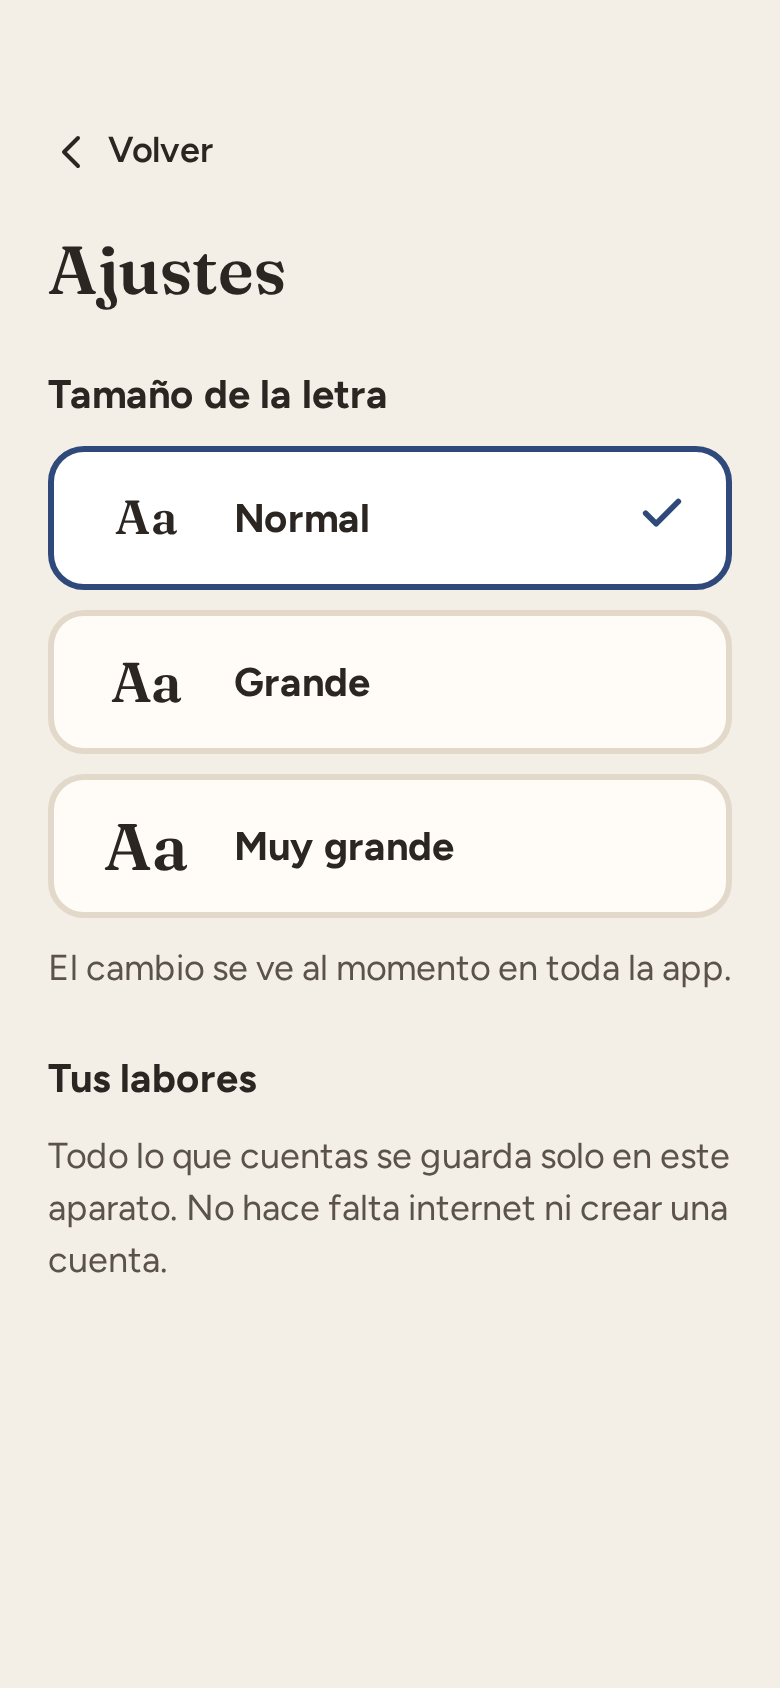
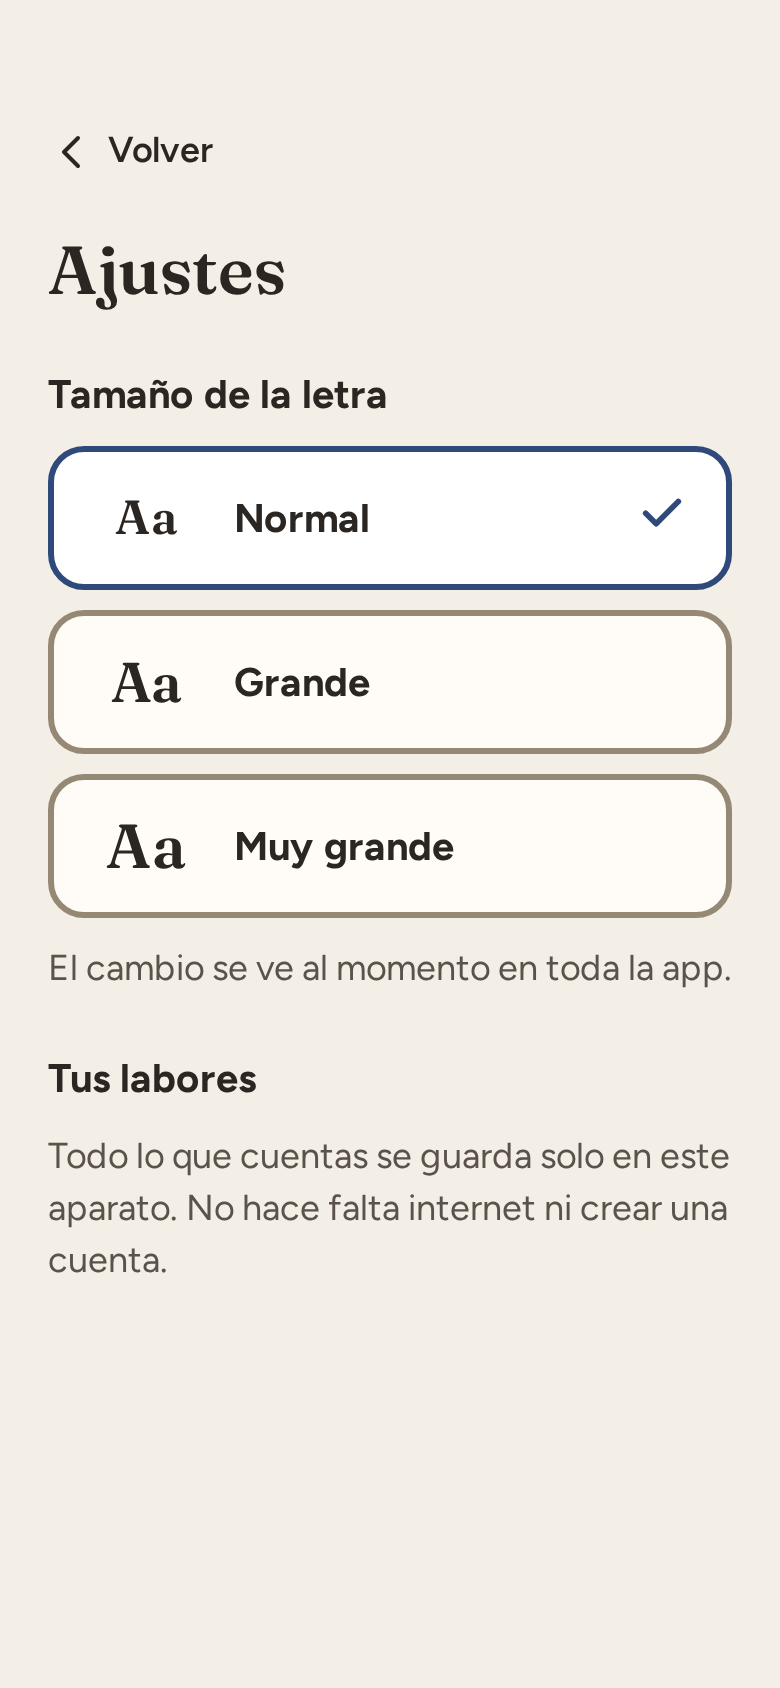
v2(T12-fixes): layouts for narrow and landscape screens with large text, refreshed screenshots

Changed region(s): [[0.0615, 0.3697, 0.9538, 0.5545], [0.0923, 0.3389, 0.9231, 0.3697], [0.9231, 0.3697, 0.9538, 0.4313]]

diff --git a/src/features/counter/CounterScreen.module.css b/src/features/counter/CounterScreen.module.css
@@ -74,6 +74,7 @@
 }
 
 .tapArea {
+  container: tap / inline-size;
   position: relative;
   padding: 10px 16px;
   flex-grow: 1;
@@ -160,8 +161,8 @@
 
 .notice {
   position: absolute;
-  left: 28px;
-  right: 28px;
+  left: 24px;
+  right: 24px;
   bottom: 20px;
   min-height: 56px;
   padding: 6px 6px 6px 16px;
@@ -181,6 +182,7 @@
 
 .noticeText {
   flex: 1;
+  min-width: 0;
   font-size: 1.0625rem;
   font-weight: 700;
 }
@@ -205,6 +207,20 @@
   font-weight: 700;
   color: var(--color-success);
   text-align: center;
+}
+
+@container tap (max-width: 320px) {
+  .notice > svg {
+    display: none;
+  }
+
+  .noticeText {
+    font-size: 0.9375rem;
+  }
+
+  .noticeUndo {
+    padding: 0 8px;
+  }
 }
 
 @keyframes pulse {
@@ -343,7 +359,7 @@
   }
 
   .plus {
-    font-size: 3.5rem;
+    font-size: 2.75rem;
   }
 
   .eyebrow {
@@ -371,6 +387,55 @@
   .finishRow,
   .controls {
     padding-bottom: 8px;
+  }
+
+  .finishRow {
+    padding-top: 8px;
+  }
+
+  .projectName {
+    font-size: 1.375rem;
+  }
+
+  .tapCount {
+    font-size: 1.0625rem;
+  }
+
+  .tapCount strong {
+    font-size: 1.25rem;
+  }
+
+  .tap {
+    gap: 4px;
+  }
+}
+
+@media (max-height: 600px) {
+  .count {
+    font-size: clamp(2.75rem, 10dvh, 4rem);
+  }
+
+  .rowSuffix {
+    display: none;
+  }
+
+  .tapArea {
+    min-height: 72px;
+    padding-block: 4px;
+  }
+
+  .plus {
+    font-size: 2.25rem;
+  }
+
+  .tap {
+    gap: 0;
+  }
+}
+
+@media (max-width: 360px) {
+  .controls svg {
+    display: none;
   }
 }
 

diff --git a/src/ui/PartOption.tsx b/src/ui/PartOption.tsx
@@ -24,17 +24,19 @@ export function PartOption({
 }: PartOptionProps) {
   const toneClass = tone === 'default' ? undefined : styles[tone];
   return (
-    <button
-      type="button"
-      className={[styles.option, toneClass, className].filter(Boolean).join(' ')}
-      {...rest}
-    >
-      <PartBadge hex={hex} technique={technique} size={40} />
-      <span className={styles.text}>
-        <span className={styles.name}>{name}</span>
-        {detail && <span className={styles.detail}>{detail}</span>}
-      </span>
-      {action && <span className={styles.action}>{action}</span>}
-    </button>
+    <div className={styles.frame}>
+      <button
+        type="button"
+        className={[styles.option, toneClass, className].filter(Boolean).join(' ')}
+        {...rest}
+      >
+        <PartBadge hex={hex} technique={technique} size={40} />
+        <span className={styles.text}>
+          <span className={styles.name}>{name}</span>
+          {detail && <span className={styles.detail}>{detail}</span>}
+        </span>
+        {action && <span className={styles.action}>{action}</span>}
+      </button>
+    </div>
   );
 }

diff --git a/src/features/counter/CounterScreen.tsx b/src/features/counter/CounterScreen.tsx
@@ -139,8 +139,8 @@ function Counter({ workspace, part }: { workspace: Workspace; part: Part }) {
                     <span className={styles.tapCount} aria-hidden="true">
                       <strong key={part.count} className={styles.pulse}>
                         {stitchesLabel(part.count)}
-                      </strong>{' '}
-                      en esta {row.one}
+                      </strong>
+                      <span className={styles.rowSuffix}> en esta {row.one}</span>
                     </span>
                   ) : (
                     <span className={styles.tapHint}>{technique.tapHint}</span>

diff --git a/src/ui/PartOption.module.css b/src/ui/PartOption.module.css
@@ -30,7 +30,8 @@
 
 .name,
 .detail {
-  overflow-wrap: anywhere;
+  overflow-wrap: break-word;
+  min-width: 0;
 }
 
 .name {
@@ -48,4 +49,25 @@
   font-size: 1.0625rem;
   font-weight: 700;
   color: var(--color-accent);
+}
+
+.frame {
+  container-type: inline-size;
+}
+
+@container (max-width: 260px) {
+  .option {
+    flex-wrap: wrap;
+    padding: 10px 14px;
+    row-gap: 4px;
+  }
+
+  .text {
+    flex-basis: calc(100% - 56px);
+  }
+
+  .action {
+    width: 100%;
+    padding-left: 54px;
+  }
 }

diff --git a/src/app/BottomNav.module.css b/src/app/BottomNav.module.css
@@ -26,7 +26,7 @@
   font-weight: 500;
   line-height: 1.15;
   text-align: center;
-  overflow-wrap: anywhere;
+  overflow-wrap: break-word;
   border-radius: var(--radius-md);
 }
 
@@ -68,11 +68,13 @@
 
 @media (orientation: landscape) and (min-width: 600px) and (max-height: 600px) {
   .nav {
+    width: calc(96px + var(--safe-left));
     padding-top: calc(var(--safe-top) + 12px);
     gap: 4px;
   }
 
   .link {
     min-height: 64px;
+    font-size: 0.75rem;
   }
 }

diff --git a/docs/work/v2-plan.md b/docs/work/v2-plan.md
@@ -42,7 +42,7 @@ Out of scope: backup (next recommended feature).
       update README and ARCHITECTURE
 - [x] T12 Reviews in parallel: task review (unbiased), code quality review, UX review for the
       target audience; apply fixes
-- [ ] T12-fixes (from the three reviews; tick each as it lands)
+- [x] T12-fixes (from the three reviews; tick each as it lands)
   - [x] F1 Long part names overlap "Cambiar"; tab labels overflow rail/bottom bar at large text
   - [x] F2 Double tap on "Terminé la vuelta" finishes two rows: ignore repeat taps, show
         "Vuelta N terminada · Deshacer" for a few seconds
@@ -98,3 +98,13 @@ old UI; the Settings link on Proyectos points to `/settings`, which T9 creates.
 | 22  | Small screens with extra-large text         | Scroll to reach buttons · compact layout                    | Compact counter under 740px tall (hides "Estás tejiendo", smaller row label)                                                       | All controls stay visible without scrolling at 375×667 with 130% text                                                  |
 | 23  | Finished piece controls                     | Keep "Pausar" disabled · hide it                            | Hidden; "Quitar uno" full width                                                                                                    | A greyed-out button invites a confused tap                                                                             |
 | 24  | Project card line (rows)                    | "26 vueltas · 1 de 4 piezas terminadas" · shorter           | "1 de 4 piezas terminadas" (single piece: "N vueltas")                                                                             | Fits on one line with large text                                                                                       |
+| 25  | Double tap on "Terminé la vuelta"           | Accept · ignore repeats · ask to confirm                    | Ignore a repeat within 1.2 s and show "Vuelta N terminada · Deshacer" for 6 s                                                      | Protects against shaky double taps without adding a question                                                           |
+| 26  | Feedback per stitch in rows mode            | Small line under the number · inside the tap area           | "12 puntos en esta vuelta" inside the tap area, with a short pulse                                                                 | The eyes are on the button while tapping                                                                               |
+| 27  | "Quitar uno" at the start of a row          | Same label · explicit label                                 | "Volver a la vuelta N"                                                                                                             | Says exactly what will happen                                                                                          |
+| 28  | Reaching a color/counter target             | Block like crochet · gentle notice                          | "¡Completado!" in green, counting continues                                                                                        | Embroiderers often need a few extra stitches                                                                           |
+| 29  | Long forms                                  | Fixed button at the bottom · button after the questions     | After the questions (part forms only)                                                                                              | A fixed button hid the questions; people tapped it first                                                               |
+| 30  | Where to rename/delete a project            | Small link in the header · big button                       | Big "Cambiar nombre o borrar proyecto" at the end of the parts screen                                                              | Findable, and out of the way of everyday counting                                                                      |
+| 31  | Pause scope                                 | Whole app · per project                                     | Per project (Dexie v4)                                                                                                             | Pausing one labor must not lock the others                                                                             |
+| 32  | Third tab without projects                  | Generic label · hidden                                      | Hidden until there is a project                                                                                                    | Avoids a wrong word ("Piezas") on the welcome screen                                                                   |
+| 33  | Icons                                       | Keep · replace ambiguous ones                               | Folder (Proyectos), tally marks (Contar), hoop and needle (Bordado), sewing button (Otra cosa)                                     | The X and + shapes read as close/cancel/add                                                                            |
+| 34  | Border contrast                             | Keep the soft design borders · ≥ 3:1                        | Borders of controls ≥ 3:1; disabled buttons dashed and muted                                                                       | Controls must be visible for older eyes                                                                                |
